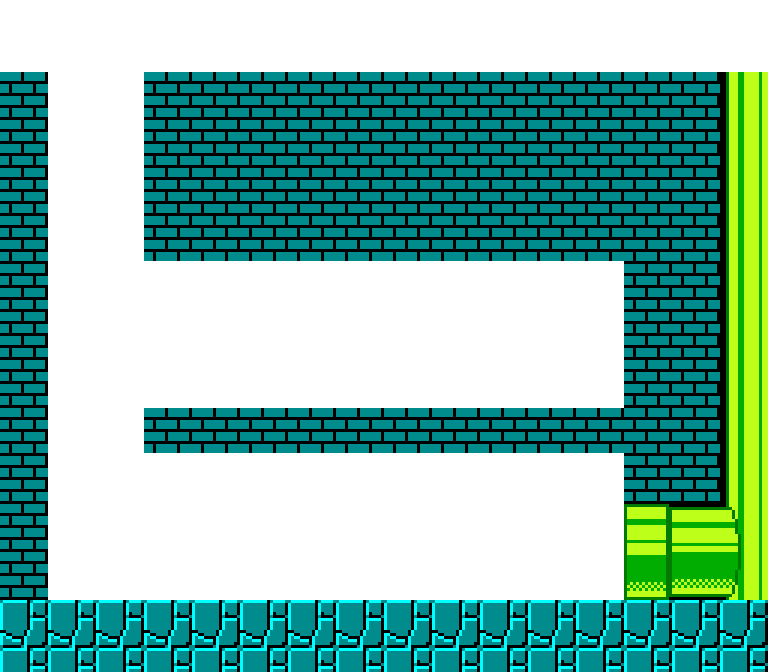
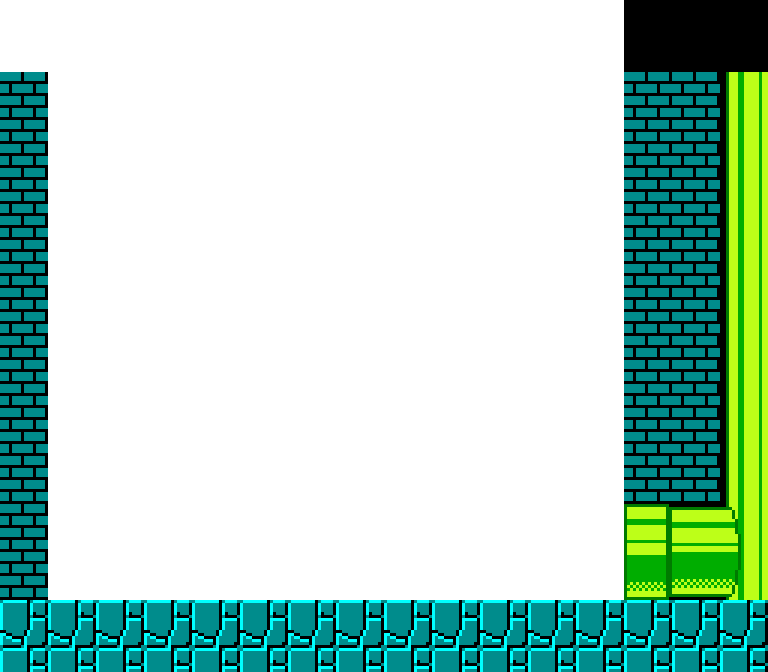
Image Fix

Changed region(s): [[0.1875, 0.0, 1.0, 0.4062], [0.1875, 0.5938, 0.8125, 0.6875]]

diff --git a/LevelCreator.py b/LevelCreator.py
@@ -177,7 +177,7 @@ def world_1_2_sub(screen, settings, start_pos=None):
 
 def world_1_2_sub_sub(screen, settings, start_pos=None):
     if start_pos is None:
-        start_pos = [3, 10]
+        start_pos = [2, 10]
     new_level = \
         Level(screen, settings, 'Resources/Images/Backgrounds/World_1/1-2/level_1_2_part2_background.png', 'Resources/Images/Backgrounds/World_1/1-2/level_1_2_part2_floor.png', start_pos, [-32, 1], 500, "1-2", settings.W_1_2_sub_sub, None, settings.W_1_2)
 
@@ -221,7 +221,7 @@ def world_1_2_exit(screen, settings, start_pos=None):
     if start_pos is None:
         start_pos = [4.5, 1]
     new_level = \
-        Level(screen, settings, 'Resources/Images/Backgrounds/World_1/1-2/level_1_2_part3_background.png', 'Resources/Images/Backgrounds/World_1/1-2/level_1_2_part3_floor.png', start_pos, [22, 2], 500, "1-2", settings.W_1_2_exit, settings.W_1_3, settings.W_1_2)
+        Level(screen, settings, 'Resources/Images/Backgrounds/World_2/2-2/2-2_exit_background.png', 'Resources/Images/Backgrounds/World_2/2-2/2-2_exit_floor.png', start_pos, [22, 2], 500, "1-2", settings.W_1_2_exit, settings.W_1_3, settings.W_1_2)
     new_level.place_enemy("piranha_plant", 3.5, 3)
     return new_level
 
@@ -231,7 +231,7 @@ def world_1_3(screen, settings, start_pos=None):
         start_pos = [3, 1]
 
     new_level = \
-        Level(screen, settings, 'Resources/Images/Backgrounds/World_1/1-3/level_1_3_background.png', 'Resources/Images/Backgrounds/World_1/1-3/level_1_3_floor.png', [6,12], (120,120), 500, "1-3")
+        Level(screen, settings, 'Resources/Images/Backgrounds/World_1/1-3/level_1_3_background.png', 'Resources/Images/Backgrounds/World_1/1-3/level_1_3_floor.png', [6,12], (120,120), 500, "1-3", settings.W_1_3, settings.W_1_4, settings.W_1_3, se)
     new_level.mass_place_blocks('invis_plt', 18, 1, 4, 1)
     new_level.mass_place_blocks('invis_plt', 24, 4, 8, 1)
     new_level.mass_place_blocks('invis_plt', 26, 8, 5, 1)

diff --git a/SuperMario.py b/SuperMario.py
@@ -26,7 +26,7 @@ class SuperMario:
         self.game_time = 0
         self.game_coin = 0
         # SET LEVEL
-        self.level = world_1_2_sub_sub(self.screen, self.settings)
+        self.level = world_1_2_exit(self.screen, self.settings)
         self.level_id = self.level.level_id
 
         # SET EVENTS
